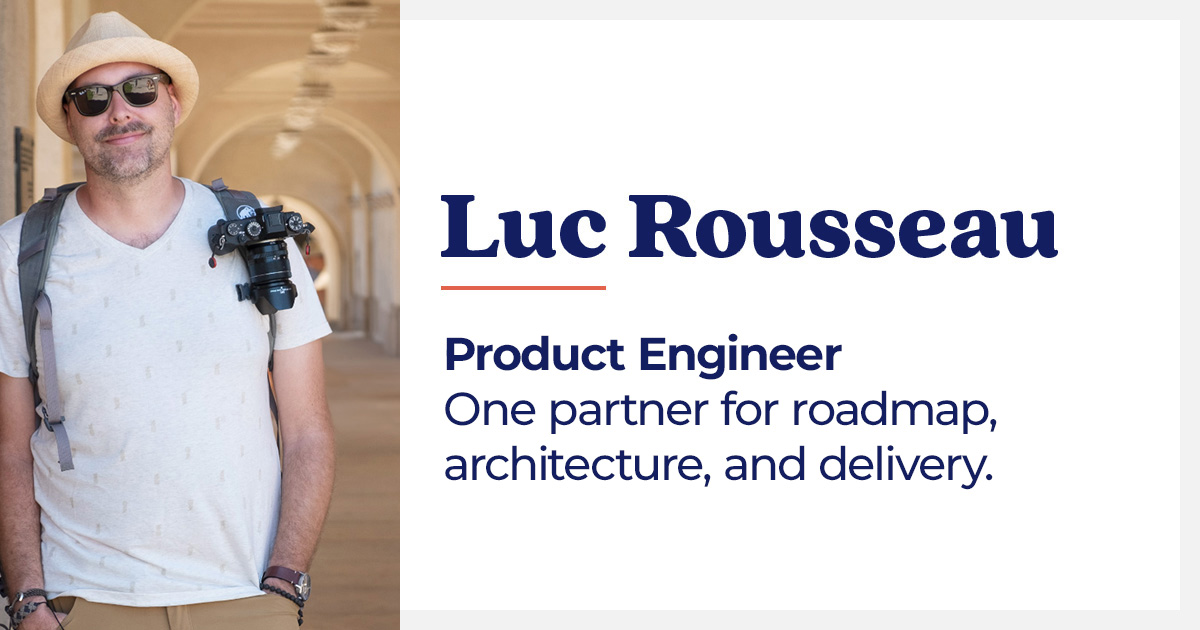
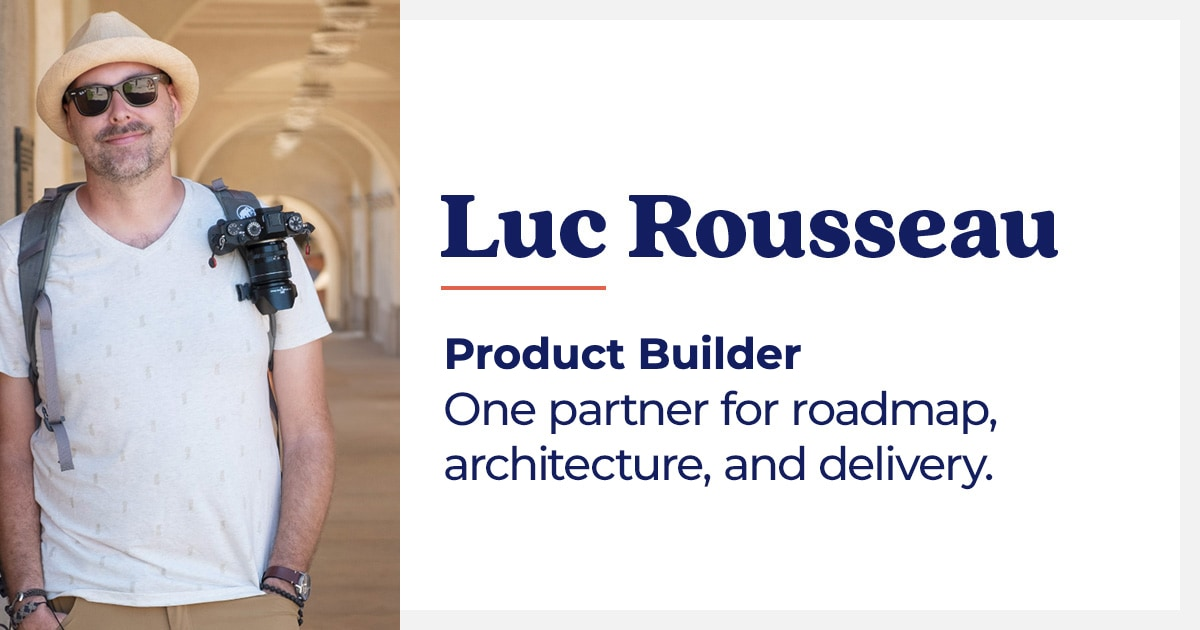
Name the job "Product Builder" everywhere it was still named otherwise.
- Web app manifest name and short_name (were "On-Demand CTO").
- Share images (og): only the "Product Engineer" line is redrawn, same font, size,
  colour and position; photo and layout untouched.
- geo.kml and the logo's aria-label.

Pages and copy that discuss "Product Engineer" as a concept or search label are left
as is; they are listed for Luc in the PR.

TK-399: https://app.notion.com/p/3f0e77b6a12c81dbb838db4204aaf47b

Changed region(s): [[0.37, 0.5127, 0.7092, 0.6032]]

diff --git a/components/Logo/index.tsx b/components/Logo/index.tsx
@@ -8,11 +8,7 @@ export default function Logo({ ...props }: AlignmentProps) {
 
   return (
     <div className={classNames("component component__logo", alignmentsClass)}>
-      <Link
-        href="/"
-        className="h2 logo"
-        aria-label="Luc Rousseau | CTO à la Demande & Création de Produits"
-      >
+      <Link href="/" className="h2 logo" aria-label="Luc Rousseau | Product Builder">
         <span>Luc Rousseau</span>
       </Link>
     </div>
